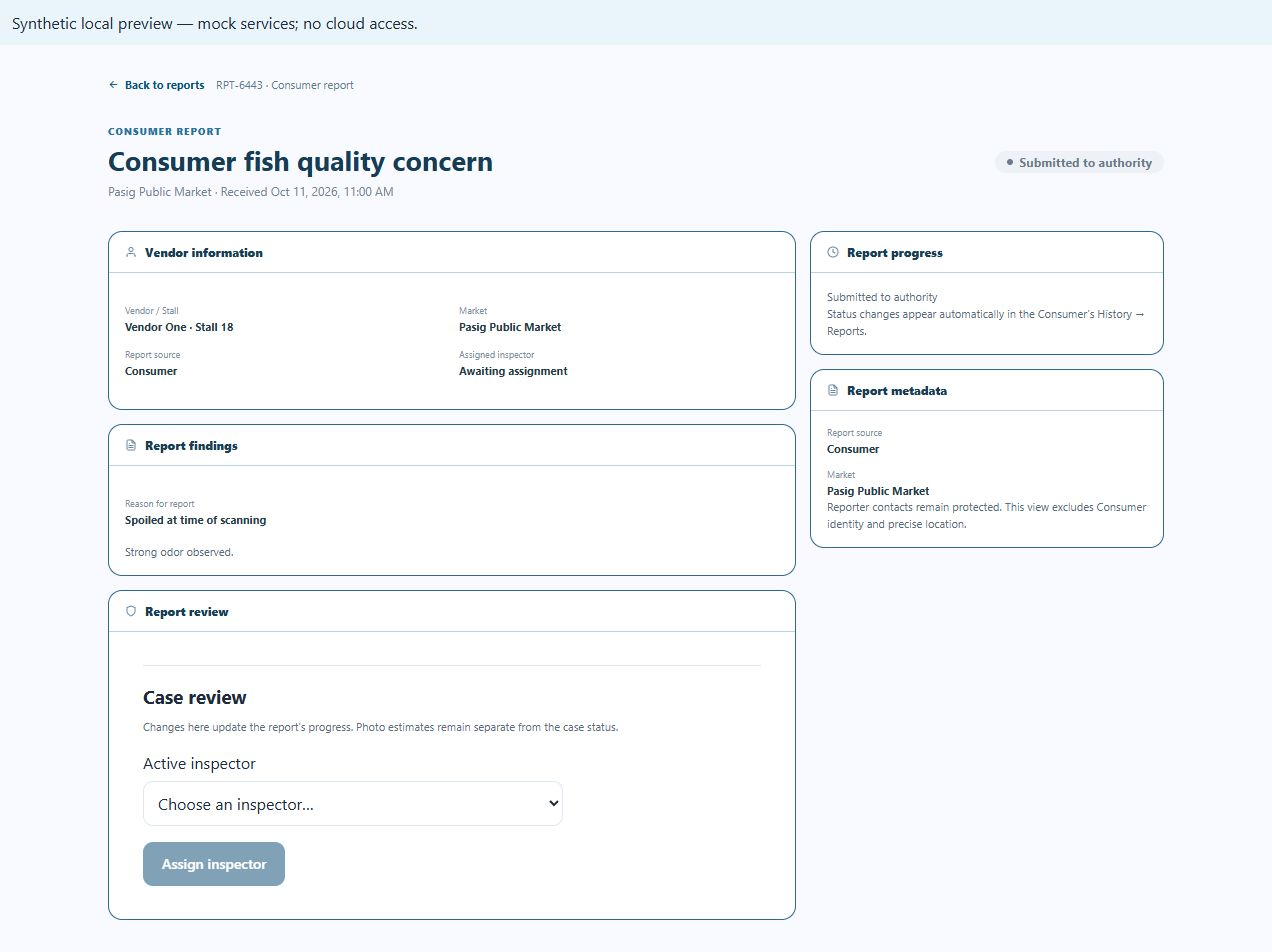
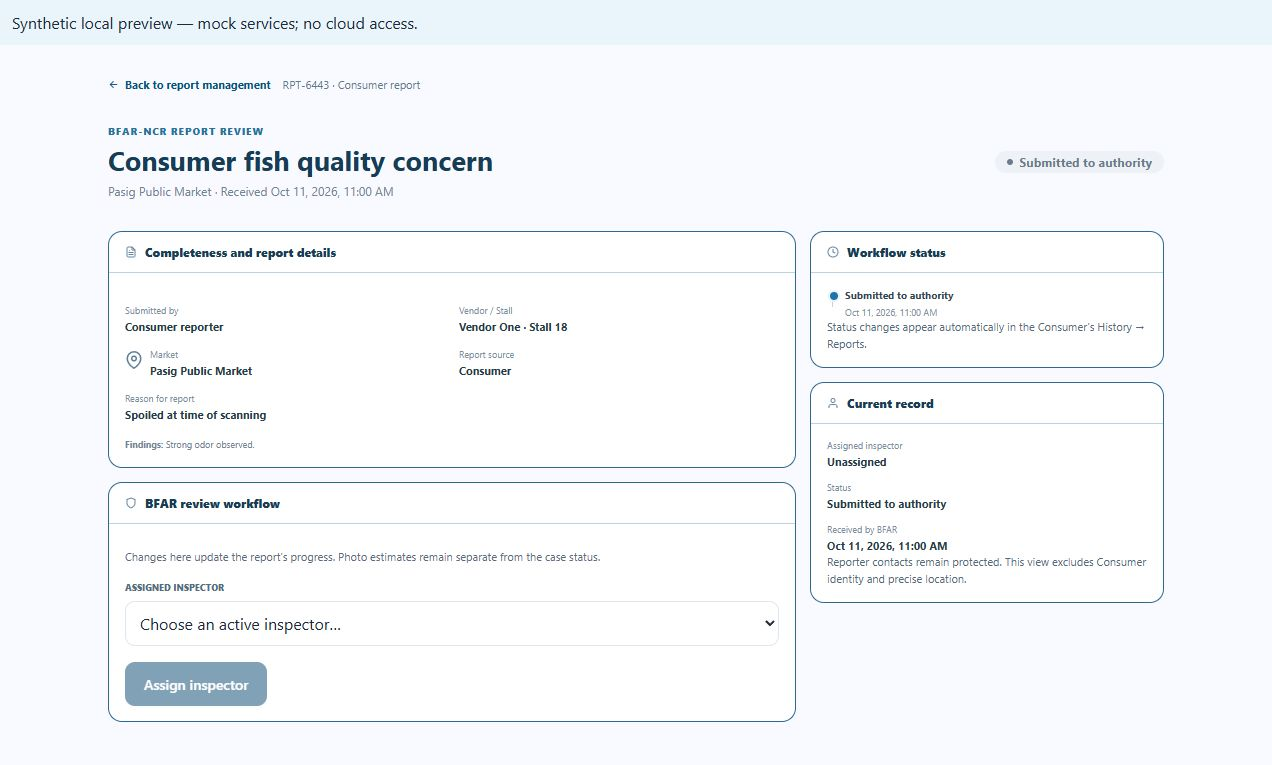
fix: align Consumer report details with Admin review layout

diff --git a/src/pages/admin/reports/ConsumerReportReview.jsx b/src/pages/admin/reports/ConsumerReportReview.jsx
@@ -1,11 +1,11 @@
 import { useEffect, useRef, useState } from 'react'
 import { Link, Navigate, useNavigate, useParams } from 'react-router-dom'
-import { FiClock, FiFileText, FiImage, FiShield, FiUser } from 'react-icons/fi'
+import { FiClock, FiFileText, FiImage, FiMapPin, FiShield, FiUser } from 'react-icons/fi'
 import { useAuth } from '../../../context/AuthContext.jsx'
 import ConfirmDialog from '../../../components/ConfirmDialog.jsx'
 import { AUTHORITY_CASES_RUNTIME_ENABLED, authorityErrorMessage, getPendingConsumerConcern, promoteConsumerConcern, subscribeAuthorityCases } from '../../../services/authorityCasesBoundary.js'
-import { consumerReportView } from '../../../utils/consumerReportView.js'
-import { Crumb, Summary, InfoCard, Fact } from './ReportDetail.jsx'
+import { consumerReportView, reportTimestamp } from '../../../utils/consumerReportView.js'
+import { Crumb, Summary, InfoCard, Fact, formatDate } from './ReportDetail.jsx'
 import AuthorityCaseWorkflow from '../authority-cases/AuthorityCaseWorkflow.jsx'
 import AuthorityEvidenceViewer from '../authority-cases/AuthorityEvidenceViewer.jsx'
 import { isAuthorityEvidenceViewerEnabled } from '../../../services/authorityEvidenceService.js'
@@ -66,23 +66,46 @@ function Review({ kind, id, user }) {
   const report = record && consumerReportView(record, kind)
   if (loading && !record) return <main className="page report-detail"><p role="status">Loading Consumer report…</p></main>
   if (!report) return <main className="page report-detail"><Link to="/reports">Back to reports</Link><p role="alert">{error || 'Report not found or not permitted.'}</p><button className="btn btn-outline" onClick={() => setRetry(value => value + 1)}>Retry</button></main>
+  const latestRecordTime = concern || record.status === 'submitted' ? record.updatedAt || record.createdAt : record.updatedAt
   return <>
-    <main className="report-detail page">
-      <Crumb label="Back to reports" report={report} />
-      <Summary report={report} kicker="CONSUMER REPORT" statusOverride={report.statusLabel} />
+    <main className="report-detail bfar-report-review consumer-report-review page">
+      <Crumb label="Back to report management" report={report} />
+      <Summary report={report} kicker="BFAR-NCR REPORT REVIEW" statusOverride={report.statusLabel} />
       {error && !confirmOpen && <p role="alert">{error}</p>}
       <div className="report-detail__layout">
         <div className="report-detail__main">
-          <InfoCard title="Vendor information" icon={FiUser}><dl className="detail-facts detail-facts--vendor"><Fact label="Vendor / Stall" value={report.vendorName} /><Fact label="Market" value={report.assignedMarket} /><Fact label="Report source" value="Consumer" /><Fact label="Assigned inspector" value={report.assignedInspectorName || 'Awaiting assignment'} /></dl></InfoCard>
-          <InfoCard title="Report findings" icon={FiFileText}><dl className="detail-facts"><Fact label="Reason for report" value={reasonLabel(report.reason)} /></dl><p>{report.description}</p></InfoCard>
+          <InfoCard title="Completeness and report details" icon={FiFileText}>
+            <dl className="detail-facts detail-facts--vendor">
+              <Fact label="Submitted by" value="Consumer reporter" />
+              <Fact label="Vendor / Stall" value={report.vendorName} />
+              <Fact label="Market" value={report.assignedMarket} icon={<FiMapPin />} />
+              <Fact label="Report source" value="Consumer" />
+              <Fact label="Reason for report" value={reasonLabel(report.reason)} />
+            </dl>
+            <p className="finding-note"><strong>Findings:</strong> {report.description}</p>
+          </InfoCard>
           {!concern && isAuthorityEvidenceViewerEnabled(user) && <InfoCard title="Photo evidence" icon={FiImage}><AuthorityEvidenceViewer record={record} user={user} /></InfoCard>}
-          <InfoCard title="Report review" icon={FiShield}>
+          <InfoCard title="BFAR review workflow" icon={FiShield}>
             {concern ? <><p>Review these findings before accepting the concern. Acceptance submits it to the authority workflow and updates the Consumer’s report status.</p><button className="btn btn-primary" disabled={promoting} onClick={() => { setError(''); setConfirmOpen(true) }}>Accept report</button></> : <AuthorityCaseWorkflow record={record} user={user} onReload={() => setRetry(value => value + 1)} />}
           </InfoCard>
         </div>
         <aside className="report-detail__side">
-          <InfoCard title="Report progress" icon={FiClock}><p>{report.statusLabel}</p><p>{concern ? 'Awaiting BFAR acceptance.' : 'Status changes appear automatically in the Consumer’s History → Reports.'}</p></InfoCard>
-          <InfoCard title="Report metadata" icon={FiFileText}><dl className="metadata"><Fact label="Report source" value="Consumer" /><Fact label="Market" value={report.assignedMarket} /></dl><p>Reporter contacts remain protected. This view excludes Consumer identity and precise location.</p></InfoCard>
+          <InfoCard title="Workflow status" icon={FiClock}>
+            {/* The case projection has current state and intake time, not a full audit history. */}
+            <ol className="action-history">
+              <li><strong>{report.statusLabel}</strong>{reportTimestamp(latestRecordTime) > 0 && <span>{!concern && record.status !== 'submitted' ? 'Latest record update · ' : ''}{formatDate(latestRecordTime)}</span>}</li>
+              {!concern && record.status !== 'submitted' && reportTimestamp(record.promotedAt || record.createdAt) > 0 && <li><strong>Submitted to authority</strong><span>{formatDate(record.promotedAt || record.createdAt)}</span></li>}
+            </ol>
+            <p>{concern ? 'Awaiting BFAR acceptance.' : 'Status changes appear automatically in the Consumer’s History → Reports.'}</p>
+          </InfoCard>
+          <InfoCard title="Current record" icon={FiUser}>
+            <dl className="metadata">
+              <Fact label="Assigned inspector" value={report.assignedInspectorName || 'Unassigned'} />
+              <Fact label="Status" value={report.statusLabel} />
+              {reportTimestamp(report.createdAt) > 0 && <Fact label={concern ? 'Concern submitted' : 'Received by BFAR'} value={formatDate(report.createdAt)} />}
+            </dl>
+            <p>Reporter contacts remain protected. This view excludes Consumer identity and precise location.</p>
+          </InfoCard>
         </aside>
       </div>
     </main>

diff --git a/src/pages/admin/authority-cases/AuthorityCaseWorkflow.jsx b/src/pages/admin/authority-cases/AuthorityCaseWorkflow.jsx
@@ -75,16 +75,15 @@ export default function AuthorityCaseWorkflow({ record, user, onReload }) {
 
   const selected = command && authorityAction(command.transition)
   return <section className="authority-workflow" aria-label="Consumer case review">
-    <h3>Case review</h3>
     <p>Changes here update the report’s progress. Photo estimates remain separate from the case status.</p>
     {record.status === 'forwarded_lgu' && <p>Awaiting the LGU decision. BFAR cannot mark this case resolved.</p>}
     {['resolved', 'closed_no_violation'].includes(record.status) && <p>This case is complete. No further status action is available.</p>}
     {!actions.length && !['forwarded_lgu', 'resolved', 'closed_no_violation'].includes(record.status)
       && <p>No BFAR action is available for this case and account.</p>}
     {canAssign && <label className="authority-workflow-field">
-      <span>Active inspector</span>
+      <span>Assigned inspector</span>
       <select value={inspectorId} onChange={event => setInspectorId(event.target.value)} disabled={loadingInspectors || pending || Boolean(command)}>
-        <option value="">{loadingInspectors ? 'Loading inspectors…' : 'Choose an inspector…'}</option>
+        <option value="">{loadingInspectors ? 'Loading inspectors…' : 'Choose an active inspector…'}</option>
         {inspectors.map(inspector => <option key={inspector.id} value={inspector.id}>{inspector.name || inspector.displayName || inspector.email}</option>)}
       </select>
     </label>}

diff --git a/src/pages/admin/reports/ReportDetail.jsx b/src/pages/admin/reports/ReportDetail.jsx
@@ -580,7 +580,7 @@ function canonicalReportFields(report) {
 }
 function displayName(inspector) { return inspector.name || inspector.displayName || inspector.email || `Inspector ${inspector.id.slice(0, 6)}` }
 function timestampValue(value) { return reportTimestamp(value) }
-function formatDate(value) { const timestamp = timestampValue(value); return timestamp ? new Intl.DateTimeFormat('en-PH', { dateStyle: 'medium', timeStyle: 'short' }).format(new Date(timestamp)) : 'Not recorded' }
+export function formatDate(value) { const timestamp = timestampValue(value); return timestamp ? new Intl.DateTimeFormat('en-PH', { dateStyle: 'medium', timeStyle: 'short' }).format(new Date(timestamp)) : 'Not recorded' }
 function statusLabel(status) { return String(status || 'submitted').replace(/[-_]/g, ' ').replace(/\b\w/g, (letter) => letter.toUpperCase()) }
 function evidenceValue(value) { return value === null || value === undefined || value === '' ? 'Not recorded' : String(value) }
 function withUnit(value, unit) {

diff --git a/src/pages/admin/consumer-intake/ConsumerIntake.css b/src/pages/admin/consumer-intake/ConsumerIntake.css
@@ -18,3 +18,6 @@
 .authority-workflow [role="alert"] { color: var(--color-danger, #942f29); }
 .authority-workflow [role="status"] { color: var(--text-primary, #193f57); }
 .authority-workflow select:focus-visible, .authority-workflow button:focus-visible { outline: 3px solid var(--color-primary); outline-offset: 2px; }
+.consumer-report-review .authority-workflow { border-top: 0; margin: 0; padding-top: 0; }
+.consumer-report-review .authority-workflow-field { max-width: none; }
+.consumer-report-review .authority-workflow-field > span { color: #536f83; font-size: 9px; font-weight: 800; text-transform: uppercase; }

diff --git a/docs/planning/consumer-reports-shared-admin-view.md b/docs/planning/consumer-reports-shared-admin-view.md
@@ -6,6 +6,10 @@ Consumer uses the Inspector form's assessment-summary / details structure, with 
 
 Consumer concerns and Inspector submissions appear under Admin **Reports**, using the existing report cards, summary, vendor facts, detail cards and side panel. Source labels and a source filter distinguish them. The old Consumer Intake / Authority Cases links redirect to Reports; they are not extra sidebar destinations.
 
+The user's deployed Inspector report screenshots are the reference for the Consumer detail structure: **Completeness and report details**, optional **Photo evidence**, **BFAR review workflow**, and the right-hand **Workflow status** / **Current record** cards. Consumer vendor/stall, reason and findings share the first card; assignment sits in the full-width workflow field without a second Case review heading. The existing Admin shell/banner and shared detail-card styles are reused. Private reporter names/contact details are not fetched to reproduce the Inspector Submitted by field; its Consumer equivalent identifies the reporter role only.
+
+The Consumer status sidebar uses the existing timeline styling but shows only current recorded state/update time and the authority intake time available in the projection. It does not invent past assignments, investigators, LGU actions, actors, conclusion messages or delivery confirmations. A missing update date is omitted rather than replaced with the original intake date. **Received by BFAR** is case creation/intake time, not the original Consumer submission time. A complete audit timeline and LGU conclusion messaging remain deferred with the Inspector/LGU integration.
+
 Consumer evidence views show only available Consumer photo data. Legacy Consumer detail records use an allowlisted photo/species/photo-estimate presentation; missing fields and empty evidence cards are omitted. Sensor readings, GPS coordinates, Inspector Pass/Conditional/Fail decisions, combined confidence, shelf-life/storage recommendations, Inspector action and the Inspector contact-number field are excluded from Consumer detail presentation. Inspector evidence remains unchanged. This is a view-only distinction; stored report data is retained.
 
 Protected Consumer concern/case review no longer shows an empty **Assessment summary** card. Its **Photo evidence** section appears only after acceptance when the existing authorized image viewer is enabled. It does not reuse a legacy image URL or fabricate an estimate from unavailable/unapproved authority analysis. Current promoted cases have no approved analysis summary. The existing evidence access gate, retrieval, audit and temporary-image cleanup remain unchanged.
@@ -50,6 +54,7 @@ Allowed BFAR actions use the existing `transitionAuthorityCase` v1 command: exac
 - All four BFAR commands passed the actual Consumer backend command validator; pinned shared fixture/validator hashes matched the Consumer PR worktree.
 - Local synthetic browser checks: mixed-source queue, Consumer filter, existing detail-card layout, acceptance confirmation, assignment, unknown-result retry, automatic external update, stale-version conflict, LGU forwarding/read-only state, return to a queue with one promoted Consumer row, and 375×812 / 812×375 overflow checks passed. A banner overflow found on the narrow view was fixed; final document width equals viewport width.
 - Consumer evidence follow-up: rendered the same mixed assessment data as Consumer and Inspector; Consumer showed only its loaded photo, species and supported photo estimate, while Inspector retained its sensor/assessment fields. A sensor-only Consumer fixture rendered no evidence card. Pending and accepted Consumer review omitted the empty assessment section with the image gate disabled. Both revised detail and evidence views had no horizontal overflow at 375×812. These checks use mock services and an existing repository photo, not actual cloud evidence.
+- Deployed-layout alignment follow-up: pending and accepted details use the reference card titles/order; acceptance and assignment still work; assignment updates the shared summary, current record and recorded-state timeline automatically. A case without `updatedAt` displays no invented update timestamp. Revised detail passes 375×812 and 812×375 overflow checks. Admin's 60-test suite and production build passed again; no new dependencies, backend commands or access-gate changes were introduced.
 - Screenshots show synthetic local data and mock services, not cloud acceptance: [queue](consumer-reports-local-preview.jpg), [updated detail](consumer-report-detail-local-preview.jpg), [Consumer/Inspector evidence comparison](consumer-photo-evidence-local-preview.jpg). No Firebase request was made by those fixtures.
 - No new dependency was added. Functions/rules are unchanged; their full suites and emulator checks were not repeated for these presentation changes.
 
